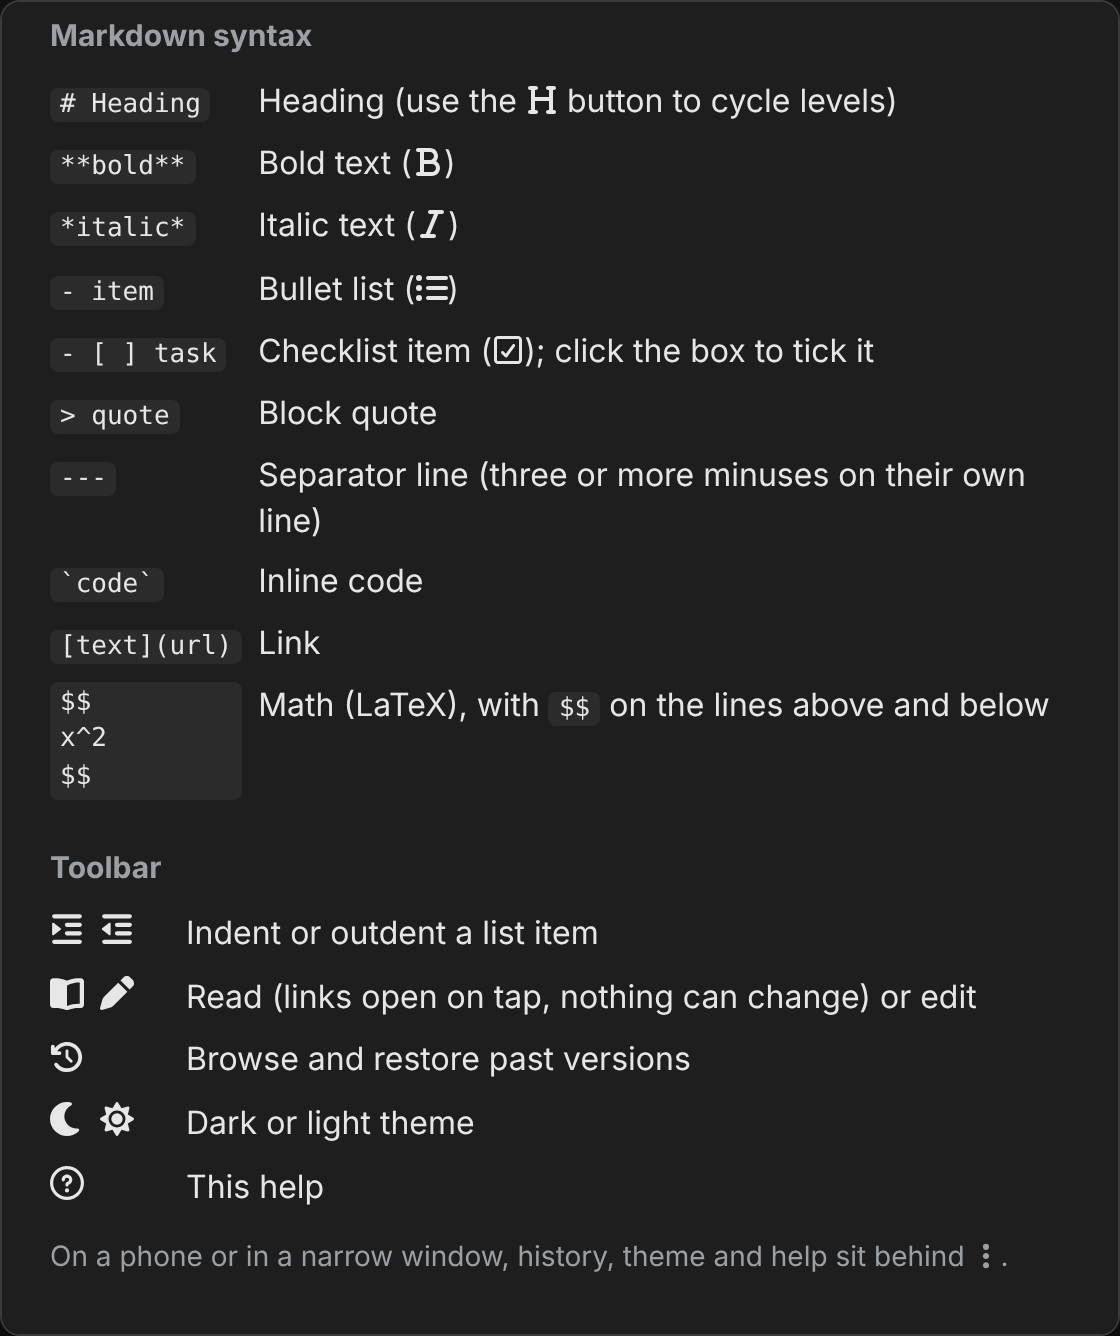
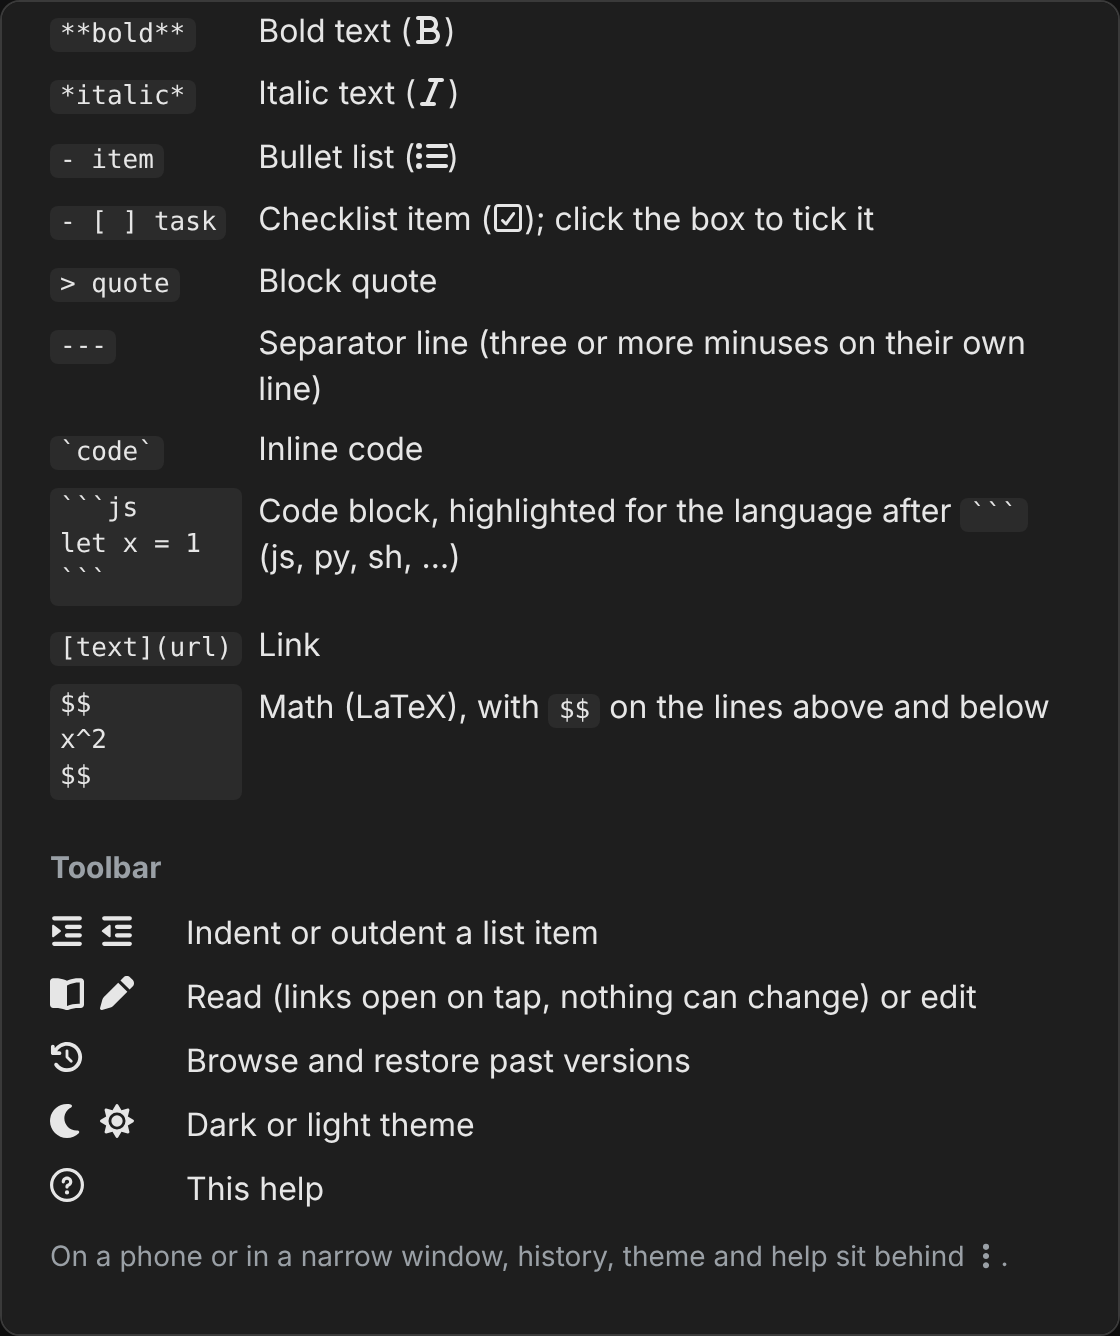
Add fenced code blocks to the help
The syntax table had inline code but not ``` blocks, nor that the word
after the opening fence picks the highlighting. One row, shown as a block
like the math example.

diff --git a/src/ui/toolbar.ts b/src/ui/toolbar.ts
@@ -217,6 +217,7 @@ function buildHelp(): HTMLElement {
         <tr><td><code>&gt; quote</code></td><td>Block quote</td></tr>
         <tr><td><code>---</code></td><td>Separator line (three or more minuses on their own line)</td></tr>
         <tr><td><code>\`code\`</code></td><td>Inline code</td></tr>
+        <tr><td><pre><code>\`\`\`js&#10;let x = 1&#10;\`\`\`</code></pre></td><td>Code block, highlighted for the language after <code>\`\`\`</code> (js, py, sh, …)</td></tr>
         <tr><td><code>[text](url)</code></td><td>Link</td></tr>
         <tr><td><pre><code>$$&#10;x^2&#10;$$</code></pre></td><td>Math (LaTeX), with <code>$$</code> on the lines above and below</td></tr>
       </table>

diff --git a/CHANGELOG.md b/CHANGELOG.md
@@ -58,6 +58,9 @@ All notable changes to MD-Docs are documented here. This project adheres to
 - On a screen up to 560px wide, help opens as a full screen with a back
   button, like the history view, instead of a card over the editor. Wider
   screens keep the dialog. (#32)
+- Help explains fenced code blocks and the language name that picks their
+  highlighting, shows multi-line examples (code, math) as one block, and
+  lists the toolbar's buttons as a table instead of one long sentence. (#32)
 
 ### Fixed
 - `npm test` dropped unit-test results: each run reported a different subset,
